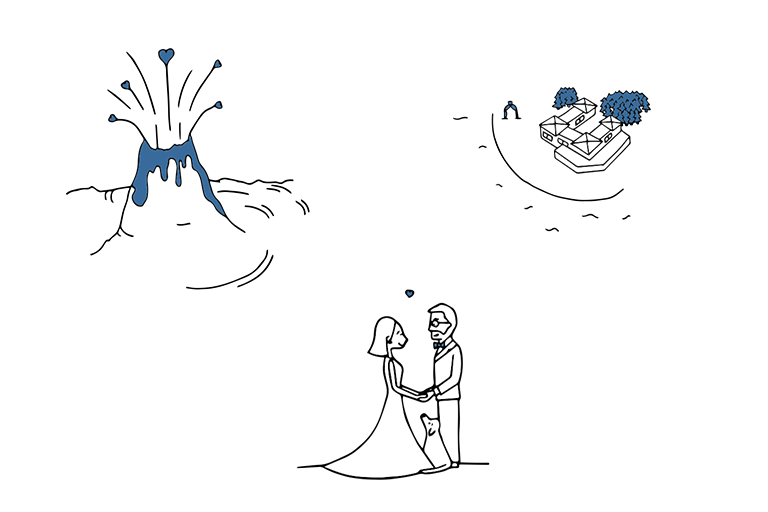
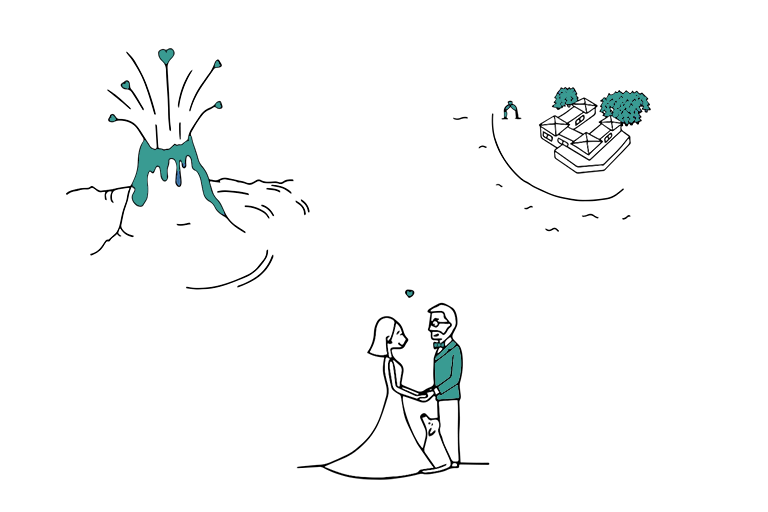
updated color and hero

diff --git a/src/components/programme.js b/src/components/programme.js
@@ -74,7 +74,7 @@ const Programme = () => {
                 <Step>
                   <StepNumber>28 mai</StepNumber>
                   <StepText>
-                    <StepHeading>Brunch &amp; fin</StepHeading>
+                    <StepHeading>Petit-déjeuner &amp; fin</StepHeading>
                     <StepDescription>
                       Un brunch est prévu dans la matinée, l&#39;occasion de
                       partager un dernier moment ensemble afin de clôturer ce

diff --git a/tailwind.config.js b/tailwind.config.js
@@ -16,8 +16,9 @@ module.exports = {
       black: "#000",
       white: "#fff",
 
-      primary: "#386B9B",
-      secondary: "#399B92",
+      primary: "#399B92",
+      // primary: "#386B9B",
+      secondary: "#386B9B",
       tertiary: "#FFECCC",
 
       gray: {
